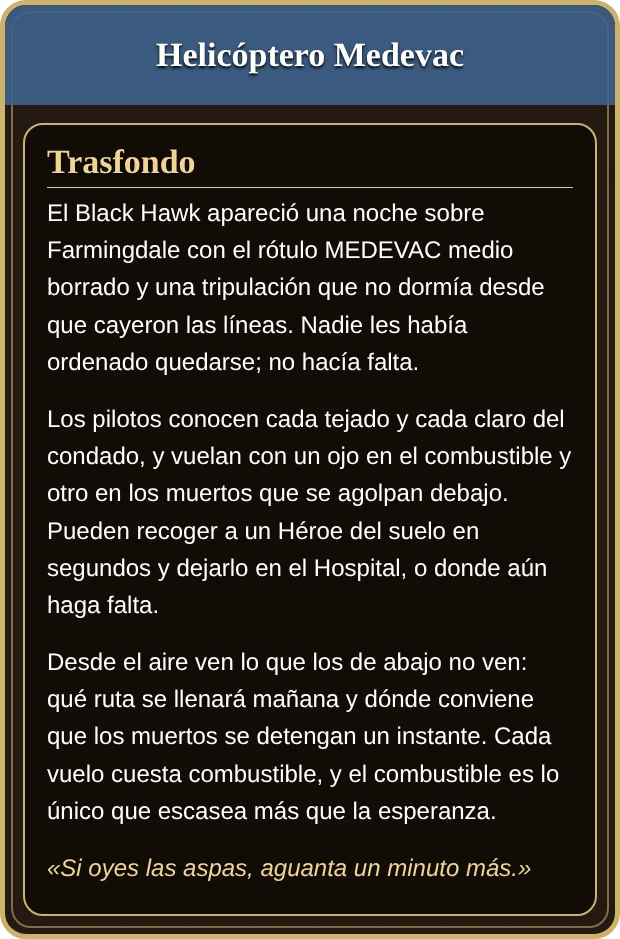
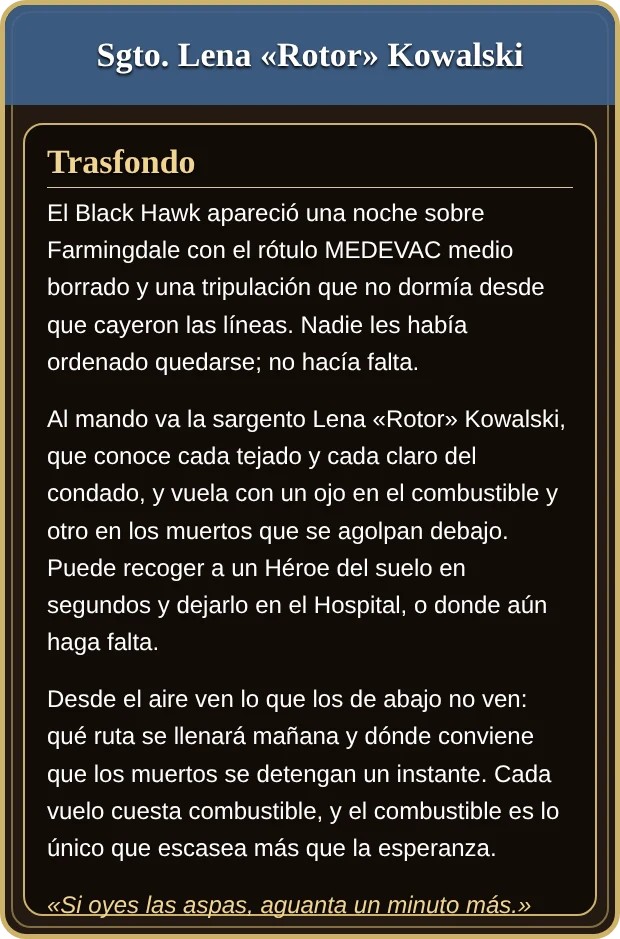
Helicóptero Medevac: su piloto es la Sgto. Lena «Rotor» Kowalski (nombre, cartas y trasfondo)
Claude-Session: https://claude.ai/code/session_01KmRiLam16qxK6v4ebdfK1d

Changed region(s): [[0.0613, 0.4324, 0.9194, 0.9883], [0.1532, 0.0309, 0.8581, 0.0927]]

diff --git a/js/expansions.js b/js/expansions.js
@@ -30,7 +30,7 @@ Object.assign(HEROES, {
     txt: ['<b>Pacifista:</b> no dispara con armas de fuego.', '<b>Ingeniero:</b> puede entrar en el Laboratorio, donde puede Investigar. Si la tirada falla por 1, puede gastar 1 Suministro para sumarle +1.', '<b>Con lo que hay:</b> Acción de Personaje (1 vez por turno): convierte 1 Suministro en 2 Munición.', '<b>Cinta americana:</b> construye Barricadas por 1 Suministro.', '<b>Siempre hay otra salida:</b> al ser atacado por Zeds en una ruta, tira 1 dado: con 4-6 se retira gratis 1 espacio hacia el Centro antes del combate.'] },
   sar: { name: 'Búsqueda y Rescate (SAR)', type: 'civh', cls: 'Civiles Heroicos', full: 3, red: 2, mp: 3, img: 'sar', card: 'h_sar', lv: 2, exp: 4, hf: 2, hr: 2,
     txt: ['<b>Despejar:</b> Acción de Personaje (1 Acción), una vez por turno, aunque haya Caos en su espacio: en el Mantenimiento quita 2 fichas de Caos de ese espacio sin subir la Infección.', '<b>Escudo humano:</b> 1 columna a favor en combates Cuerpo a Cuerpo y al disparar mientras haya Refugiados o Aldeanos en su espacio.'] },
-  heli: { name: 'Helicóptero Medevac', type: 'hero', cls: 'Aeronave', full: 2, red: 1, mp: 3, mpTxt: '*', img: 'heli', card: 'h_heli', lv: 2, exp: 4, hf: 2, hr: 2, nofire: 1,
+  heli: { name: 'Sgto. Lena «Rotor» Kowalski (Helicóptero Medevac)', type: 'hero', cls: 'Aeronave', full: 2, red: 1, mp: 3, mpTxt: '*', img: 'heli', card: 'h_heli', lv: 2, exp: 4, hf: 2, hr: 2, nofire: 1,
     txt: ['<b>Combustible de reserva:</b> al entrar en juego obtienes 3 Suministros.', '<b>Vuelo:</b> su Movimiento es *: no usa la Acción de Mover, solo se mueve volando. Acción de Personaje (1 Suministro), una vez por turno: el helicóptero y un Héroe de su espacio despegan y quedan en el aire, y eliges qué ruta patrullan el resto del turno. Aterrizan después, gratis, donde quieran (cualquier espacio de superficie sin Zeds que no sea Inicial), o siguen en el aire. No pueden llevar a Pepinillos, Horacio, el General Lee ni Carter.', '<b>Patrulla:</b> al despegar eliges la ruta que patrulla el resto del turno. Al inicio de cada turno siguiente, tras revelar el Evento, si sigue en el aire paga 1 Suministro y vuelve a elegir ruta, o aterriza gratis. Mira la siguiente carta de Evento. En esa ruta, todo el turno: <b>Maniobra de distracción</b> (reacción, una vez por turno: antes de que una unidad o Horda Zed se mueva, tira 1 dado; con 3-6 no se mueve, y si falla no puede reintentarlo) y los Zeds tienen 1 columna en contra en todos los combates.', '<b>Despegue de emergencia:</b> cuando una unidad Zed entra en su espacio, tira 1 dado antes del combate: 1 combate normal y no despega; 2 combate normal y, si sigue vivo, despega; 3-6 despega sin combate. Al despegar paga 1 Suministro, puede llevarse al Héroe de su espacio y eliges qué ruta patrulla el resto del turno.', '<b>En el aire:</b> ni el helicóptero ni su Héroe pueden ser atacados ni realizar Acciones.', '<b>Aterrizaje:</b> gratis en cualquier momento de la fase de Acciones, en un espacio de superficie sin Zeds que no sea Inicial. Puede dejar al Héroe en una Cama libre del Hospital (sin ECG ni Infección); si aterriza en un espacio, el Héroe recibe 1 Acción gratis.', '<b>Mantenimiento:</b> recibe 2 Impactos por cara. Las unidades médicas no pueden repararlo de forma habitual: si cae al Hospital, una Curación le retira el ECG; después solo se repara en el Centro, pagando 1 Suministro, una vez por turno.', '<b>No dispara.</b>'] },
   caza: { name: 'Club de Caza de Farmingdale', type: 'civh', cls: 'Civiles Heroicos', full: 3, red: 2, mp: 3, img: 'caza', card: 'h_caza', lv: 2, exp: 4, hf: 2, hr: 2,
     txt: ['<b>Puesto de caza:</b> disparan a 2 espacios sin penalización de columna.', '<b>Trofeo:</b> cuando su disparo elimina a una unidad Zed, recuperan 1 Munición.', '<b>Presa marcada:</b> Acción de Personaje (1 Acción), una vez por turno: marcan una unidad Zed a su alcance. Los disparos de cualquier unidad de jugador contra ella tienen 1 columna a favor hasta que sea eliminada o termine el turno.', '<b>A campo abierto:</b> tienen 1 columna en contra en combates Cuerpo a Cuerpo.'] }

diff --git a/sw.js b/sw.js
@@ -1,7 +1,7 @@
 /* Service worker: permite instalar la web como app y jugar sin conexión.
    Código (html/js/css): red primero, con copia local de reserva. Imágenes y audio: caché primero. */
 'use strict';
-const CACHE = 'doz3-v53';
+const CACHE = 'doz3-v54';
 const SHELL = ['./', 'index.html', 'style.css', 'manifest.webmanifest', 'icons/icon-192.png', 'icons/icon-512.png', 'assets/portada.jpg', 'assets/fondo_nueva.webp', 'assets/fondo_ranking.webp',
   'js/version.js', 'js/data.js', 'js/events.js', 'js/dest.js', 'js/evlog.js', 'js/preview.js', 'js/obituario.js', 'js/engine.js', 'js/game.js', 'js/phases.js', 'js/actions.js', 'js/cardtext.js', 'js/ui.js', 'js/anim.js',
   'js/expansions.js', 'js/expansions2.js', 'js/sfx.js', 'js/sound.js', 'js/opciones.js', 'js/voz.js', 'js/ost.js', 'assets/sonidos/letras/letras.js', 'assets/sonidos/efectos/sfx_disparo.mp3', 'assets/sonidos/efectos/sfx_disparo_largo.mp3', 'js/mapzoom.js', 'js/seedcode.js', 'js/save.js', 'js/main.js', 'js/bot.js'];

diff --git a/js/version.js b/js/version.js
@@ -1,2 +1,2 @@
 /* Fecha y hora de la última build (hora de Madrid). Se actualiza con cada cambio publicado. */
-const BUILD_TIME = '2026-11-01 00:10';
+const BUILD_TIME = '2026-11-01 00:40';

diff --git a/CHANGELOG.md b/CHANGELOG.md
@@ -2,6 +2,11 @@
 
 Registro de cambios por publicación (push a `main`). Lo más reciente, arriba. Cada entrada lleva la misma fecha y hora que `BUILD_TIME` de `js/version.js`.
 
+## 2026-11-01 00:40
+
+### Cambios
+- **Helicóptero Medevac:** su piloto tiene nombre: **Sgto. Lena «Rotor» Kowalski**. Aparece en el nombre de la unidad (en el juego), en el título de la carta (frente y trasera, que se han regenerado) y en el trasfondo.
+
 ## 2026-11-01 00:10
 
 ### Fixes
